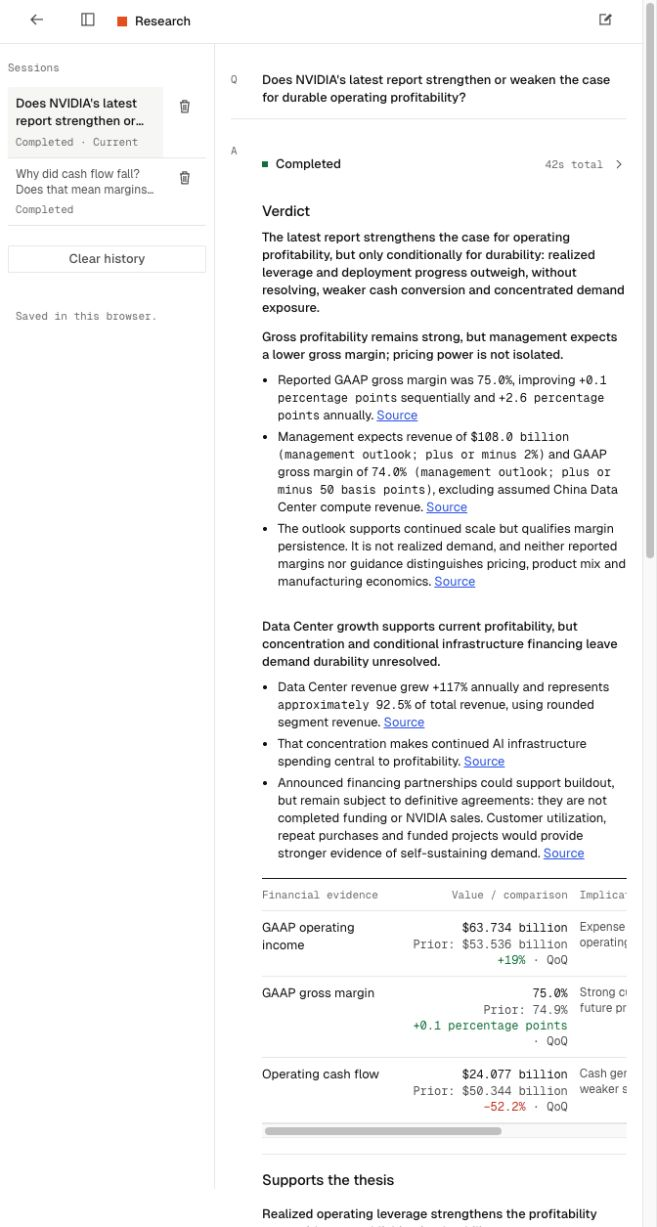
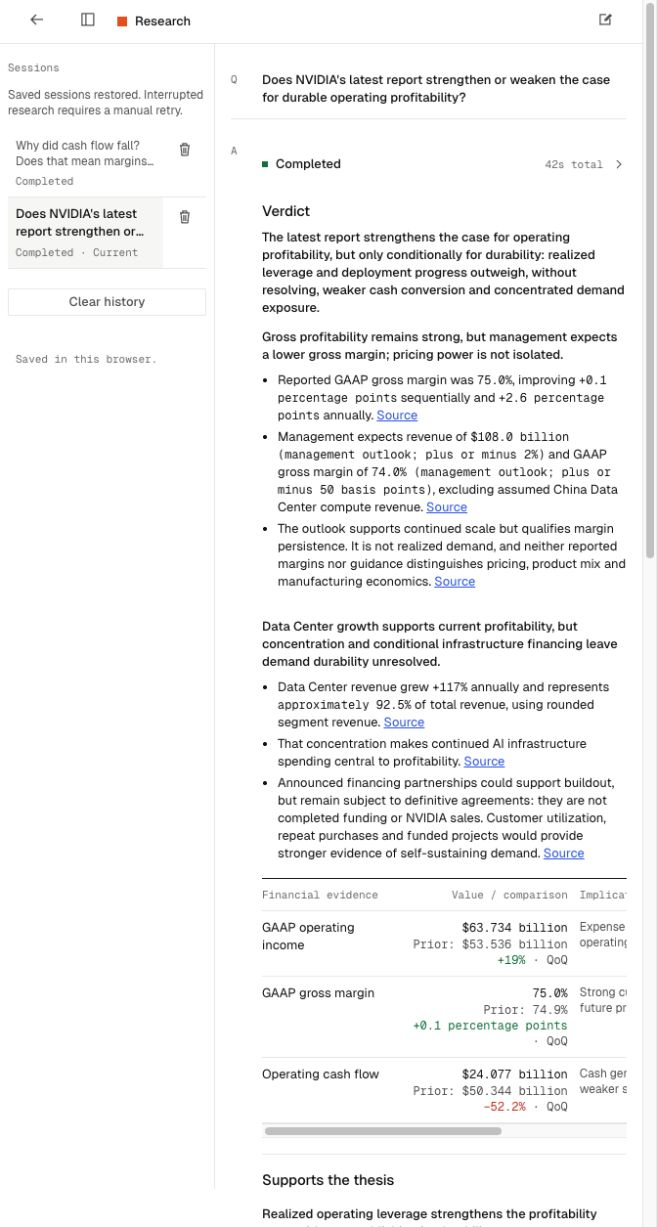
Document stable protected V3 Preview and final history proof

Changed region(s): [[0.0, 0.0619, 0.3044, 0.3097], [0.0304, 0.2478, 0.0609, 0.3097]]

diff --git a/docs/DECISIONS.md b/docs/DECISIONS.md
@@ -174,4 +174,4 @@
 
 | D95 | 2026-10-13 | Approve browser-local V3 history restoration and retain the four MVP priorities in order: persistence, protected preview, completion latency without loss of accepted reasoning, and a small advisor/analyst pilot. Queue five UX improvements after those priorities. | Helen approves the next priorities and explicitly requests a later investigation/visual-flow backlog. Reload loss now warrants a bounded retention change; client credentials remain forbidden. | Local versioned history, delete/clear controls, interrupted-run recovery and server-side source compatibility restoration implemented. 153 tests/typecheck/build pass; both existing user answers and a test draft survived browser reloads without model calls. Protected deployment, latency experiment and actual participant pilot remain pending. |
 
-| D96 | 2026-10-13 | Deploy V3 only to protected Preview, validate actual hosted access/streaming and opt into cancellation for the V3 research function. Preserve Production/V2 and accepted reasoning; restore session timestamps without treating reload as new activity. | Helen completes CLI login to continue D95. Hosted testing catches that default Vercel disconnect handling differs from local cancellation. Apply platform-supported cancellation rather than introducing more agents or silently accepting paid generation after Stop. | First Preview from 70316c6 passes unauthenticated page/API protection and a one-call checked live answer (43.344s, first checked finding 12.126s). Original disconnected request continues to completion at 34.871s. Corrected Preview 3e9e6dd stops at 3.405s; subsequent one-call checked completion succeeds at 33.094s. Hosted restoration/access/incremental HTTP checks and 154 tests/typecheck/build pass. Aggregate spending, authenticated browser and actual pilot gates remain separate; no controlled latency gain claimed. |
+| D96 | 2026-10-13 | Deploy V3 only to protected Preview, validate actual hosted access/streaming and opt into cancellation for the V3 research function. Preserve Production/V2 and accepted reasoning; restore session timestamps without treating reload as new activity. | Helen completes CLI login to continue D95. Hosted testing catches that default Vercel disconnect handling differs from local cancellation. Apply platform-supported cancellation rather than introducing more agents or silently accepting paid generation after Stop. | First Preview from 70316c6 passes unauthenticated page/API protection and a one-call checked live answer (43.344s, first checked finding 12.126s). Original disconnected request continues to completion at 34.871s. Corrected Preview 3e9e6dd stops at 3.405s; subsequent one-call checked completion succeeds at 33.094s. Hosted restoration/access/incremental HTTP checks and 154 tests/typecheck/build pass. New stable V3-only alias preserves the browser-storage origin across future Preview updates; SSO confirmed, Production aliases untouched. Aggregate spending, authenticated browser and actual pilot gates remain separate; no controlled latency gain claimed. |

diff --git a/docs/PRD.md b/docs/PRD.md
@@ -1,6 +1,6 @@
 # PRD: Portfolio Research Agent (working name)
 
-Owner: Helen Shim · Status: v0.66. Prototype 1 frozen; V2 local baseline preserved; Helen accepts V3 reasoning/follow-up usefulness after testing. Navigation and privacy/control checks take priority; completion-time tuning deferred. Local V3 collapsible session rail, Back/new-research navigation and privacy hardening implemented; hosted pilot/access verification remains separate · Last updated: 2026-10-13
+Owner: Helen Shim · Status: v0.66. Prototype 1 frozen; V2 local baseline preserved; Helen accepts V3 reasoning/follow-up usefulness after testing. Navigation and privacy/control checks take priority; completion-time tuning deferred. V3 browser history and protected Preview implemented; aggregate spending, authenticated-browser and actual pilot gates remain separate · Last updated: 2026-10-13
 Build tool: Codex, on OpenAI models.
 Decision log: `docs/DECISIONS.md`. Every decision is logged there, and the affected PRD section is updated in the same change.
 Prototype history: `docs/PROTOTYPE-VERSIONS.md`. Prototype numbers describe product experiments, independently of PRD revision numbers. Prototype 1 is preserved at Git tag `prototype-1` with its exact deployed source and original protected Preview. V2 is preserved at `prototype-2-baseline-2026-10-12`; current local experiments are on `prototype-3`, not a released prototype. Start the next iteration with the learning review and task validation in `docs/prototypes/prototype-2/PLAN.md` before expanding scope.
@@ -831,3 +831,5 @@ Enable Vercel's per-function `supportsCancellation` for the V3 research route an
 Owner-only protected testing is distinct from a broader pilot release. Instance-local concurrency/spend protection remains bounded but is not an aggregate deployment spending cap. Provider/project limits and any auto-recharge settings, multi-user access and actual hosted browser Stop/retry/history interactions remain explicit pilot gates. No account credential rotation, hard aggregate cap, new participant evaluation or completion-time improvement is claimed from this deployment.
 
 D96 retest: corrected protected Preview from `3e9e6dd` stops the disconnected research at 3.405s, and a subsequent checked run completes at 33.094s with five findings/one call/zero tools. Checked findings are observed before the final result. Authenticated restoration and unauthenticated SSO gates pass. This is an operational check, not a controlled speed improvement; authenticated browser and aggregate spending/pilot gates remain separate. Current URL and evidence are in the V3 plan/deployment checkpoint.
+
+Use the stable protected V3 URL `https://portfolio-research-agent-v3-helenhshims-projects.vercel.app/v3` for future Preview testing. Page and API authentication remain enforced. Keep the same alias across V3 updates to preserve localStorage's origin; localhost and unique deployment hostname histories do not migrate. Production aliases are unchanged.

diff --git a/evals/prototype-3/PROTECTED-PREVIEW-2026-10-13.md b/evals/prototype-3/PROTECTED-PREVIEW-2026-10-13.md
@@ -34,3 +34,7 @@ Current URL: https://portfolio-research-agent-6e1ghb8u7-helenhshims-projects.ver
 - Subsequent authenticated public completion returns 200/complete, five checked findings, one model call/zero tools and final result at 33.094s. Four checked findings were observed in the response file while no final result existed, confirming incremental delivery. This proves normal execution after the abort; it does not prove both calls used the same server instance or a latency improvement. Full browser Stop/retry on this protected hostname still needs an authenticated browser session.
 - Safe diagnostics and result summaries contain no local configured secret. No provider/key value was printed. The exact hosted key was not retrieved; this equality check does not claim to audit an unknown different credential value.
 - Production untouched; previous V2 baseline remains recoverable. Existing localhost sessions restore locally, not across the new hostname. No participant results or aggregate spending-cap pass is claimed.
+
+## Stable protected testing URL
+
+https://portfolio-research-agent-v3-helenhshims-projects.vercel.app/v3 points to the corrected Preview. This is a new V3-only alias; existing Production aliases are untouched. Unauthenticated page/research/history probes remain 302 to Vercel SSO; authenticated page access returns 200 with history controls and no local configured key. Use this same hostname for future V3 Preview updates so browser-local history retains its origin. Updating the alias does not migrate localhost or unique-deployment-hostname history, enable account sync or eliminate compatibility checks. Check SSO again whenever changing the alias target.

diff --git a/docs/PROTOTYPE-VERSIONS.md b/docs/PROTOTYPE-VERSIONS.md
@@ -56,3 +56,5 @@ D92 accepts Helen's usefulness feedback and implements bounded memory-only navig
 D93 replaces the D92 header entry with a collapsible session rail and Back/New navigation. `prototype-3-candidate-6` records this local UI checkpoint; candidate-5 preserves the centered-index entry. In-tab retention and research/privacy contracts remain unchanged; no model call or deployment in this change.
 
 D95/D96 add bounded browser-local restoration and the first protected V3 Preview, without migrating V2. `prototype-3-candidate-7` preserves deployed source `3e9e6dd`, including per-route hosted cancellation. Current protected Preview: https://portfolio-research-agent-6e1ghb8u7-helenhshims-projects.vercel.app/v3 . Earlier candidates retain their distinct navigation/output/retention contracts. Localhost history is per browser/origin and does not transfer to the Preview. Hosted HTTP checks pass access protection, restoration, incremental checked output and 3.4s upstream Stop; a post-abort run completes in 33.094s. This is not a latency experiment, authenticated browser/pilot completion or deployment-wide spending-cap claim. See the D96 checkpoint for original failure and actual limits. Production remains unchanged.
+
+D96 stable private V3 alias: https://portfolio-research-agent-v3-helenhshims-projects.vercel.app/v3 . It points to the corrected Preview, has verified SSO protection for page/API access and preserves the origin across future alias updates. Do not replace Production aliases. Localhost and unique-deployment URL histories remain separate.

diff --git a/docs/prototypes/prototype-3/PLAN.md b/docs/prototypes/prototype-3/PLAN.md
@@ -95,3 +95,5 @@ For an AI PM, the test is whether these changes reduce the effort to continue a 
 ### D96 hosted execution update
 
 History is implemented and tested locally and through the hosted stateless restoration endpoint. The corrected protected Preview is https://portfolio-research-agent-6e1ghb8u7-helenhshims-projects.vercel.app/v3 , source `3e9e6dd`. Hosted access, checked incremental output and upstream cancellation pass their HTTP checks; native browser interaction on that hostname still requires Vercel sign-in. Original cancellation failure and corrected 3.4s stop are recorded in `evals/prototype-3/PROTECTED-PREVIEW-2026-10-13.md`. Normal post-abort completion is 33.094s, not a controlled latency gain. Aggregate/provider spending limits, credential-rotation confirmation and actual participant access remain pre-pilot gates. The five follow-on UX items remain after the four priorities; this deployment does not move them ahead.
+
+Stable V3 testing URL: https://portfolio-research-agent-v3-helenhshims-projects.vercel.app/v3 . It targets the corrected protected Preview. Keep future V3 Preview updates on this alias to retain the browser-history origin; recheck protection before sharing. Production aliases are unchanged. Localhost/unique-hostname history is separate.
